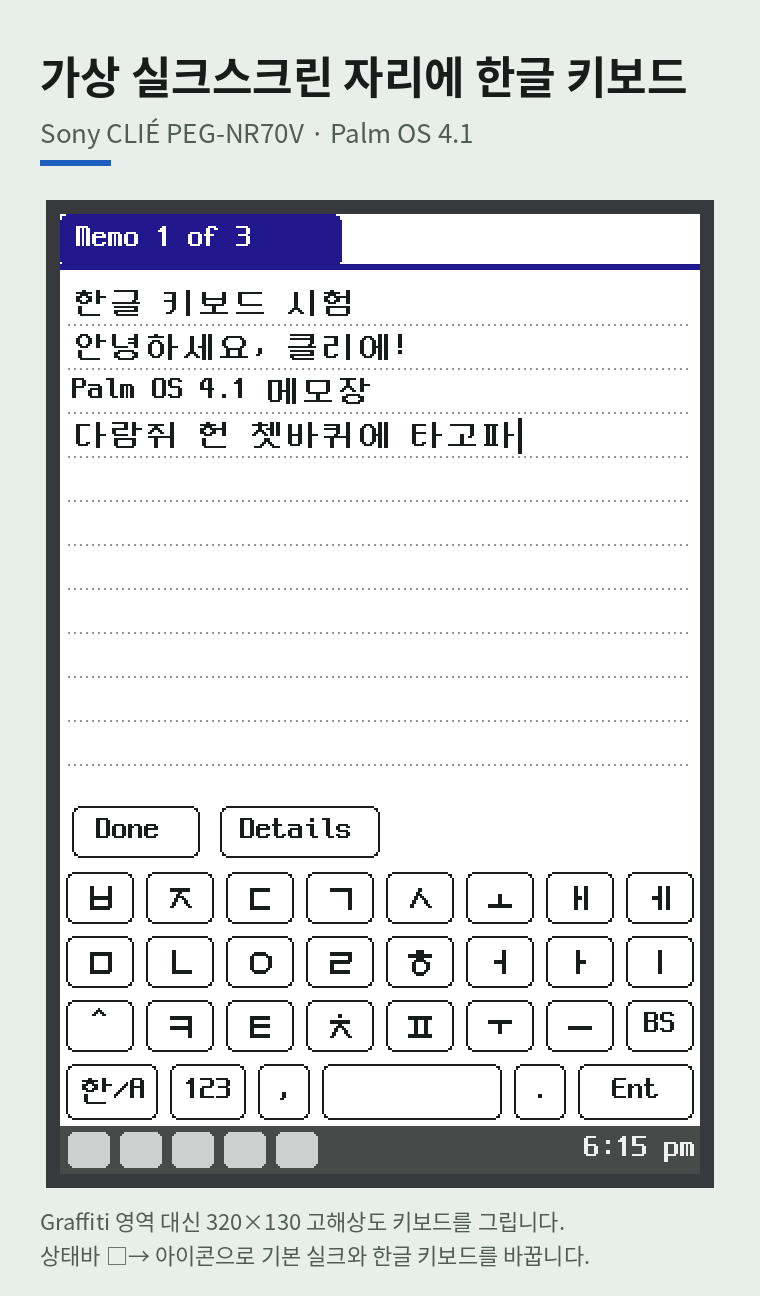
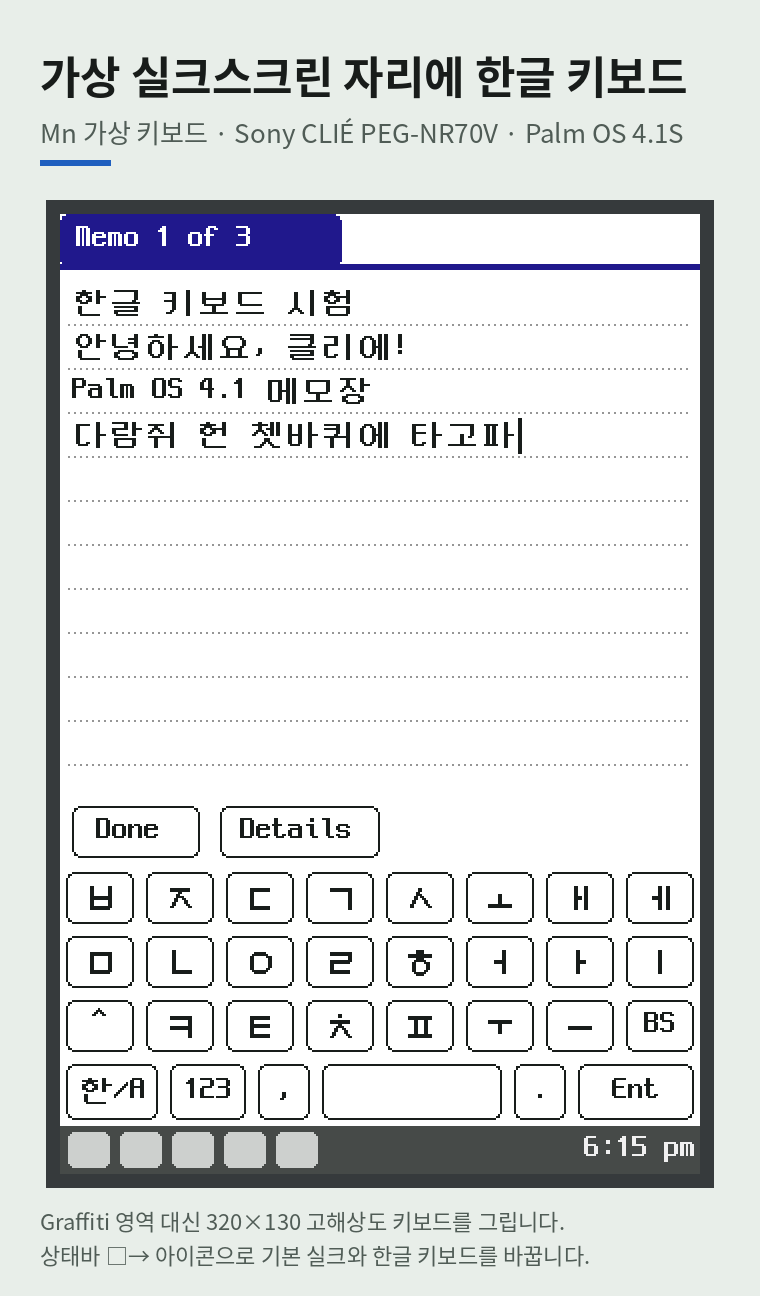
README images: label module names (Mn virtual keyboard / MnSonyKbd), fix outdated 'MnHangul 하나' subtitle, compose rules shared note
Claude-Session: https://claude.ai/code/session_0111EUgHmukks2KoNHTb7Lqc

Changed region(s): [[0.0605, 0.0926, 0.6658, 0.1235], [0.6961, 0.0926, 0.9079, 0.1235]]

diff --git a/tools/gen-readme-images.py b/tools/gen-readme-images.py
@@ -256,7 +256,7 @@ def stack(*imgs, gap=24, label=None):
 
 # 1. 전체 화면
 card("가상 실크스크린 자리에 한글 키보드",
-     "Sony CLIÉ PEG-NR70V · Palm OS 4.1",
+     "Mn 가상 키보드 · Sony CLIÉ PEG-NR70V · Palm OS 4.1S",
      frame(memo_screen(["한글 키보드 시험", "안녕하세요, 클리에!", "Palm OS 4.1 메모장", "다람쥐 헌 쳇바퀴에 타고파"],
                        keyboard('han'), cursor=3)),
      "01-overview.png",
@@ -265,14 +265,14 @@ card("가상 실크스크린 자리에 한글 키보드",
 
 # 2. 단모음 자판
 card("단모음 한글 자판",
-     "자음 14키 + 모음 8키 · Shift로 쌍자음",
+     "Mn 가상 키보드: 자음 14 + 모음 8 · Shift로 쌍자음",
      stack(frame(keyboard('han')), frame(keyboard('han', shift=True)), label=["기본", "Shift (^) — ㅃ ㅉ ㄸ ㄲ ㅆ"]),
      "02-hangul-layout.png",
      ["ㅏ·ㅓ·ㅗ·ㅜ를 한 번 더 누르면 ㅑ·ㅕ·ㅛ·ㅠ, ㅐ·ㅔ는 ㅒ·ㅖ가 됩니다."])
 
 # 3. 영문·숫자
 card("영문 QWERTY · 숫자/기호",
-     "한/A로 한·영 전환, 123으로 숫자·기호",
+     "Mn 가상 키보드: 한/A로 한·영, 123으로 숫자·기호",
      stack(frame(keyboard('eng')), frame(keyboard('num')), label=["영문 (한/A)", "숫자·기호 (123)"]),
      "03-english-number.png")
 
@@ -301,7 +301,8 @@ card("받침 넘김 · 자모 단위 지우기",
      frame(cell),
      "04-compose.png",
      ["받침 뒤에 모음이 오면 마지막 자음이 다음 글자로 넘어갑니다(닭 + ㅣ → 달기).",
-      "조합 중 BS는 자모 하나씩 지웁니다(닭 → 달)."])
+      "조합 중 BS는 자모 하나씩 지웁니다(닭 → 달).",
+      "Mn 가상 키보드와 MnSonyKbd(Sony 가상 키보드)가 같은 조합 규칙을 씁니다."])
 
 # 5. CJKOS 없이 (시험 중)
 lines12 = Image.new('RGB', (320, 140), PAPER)

diff --git a/tools/gen-readme-sony.py b/tools/gen-readme-sony.py
@@ -33,7 +33,7 @@ H = 168 + sh + 50 + 90
 img = Image.new('RGB', (W, H), BG)
 d = ImageDraw.Draw(img)
 d.text((40, 36), 'Sony 가상 키보드로 한글', font=H1, fill=INK)
-d.text((40, 104), 'MnHangul 하나, 리셋 없음 · 한A 키 = 한/영', font=H2, fill=SUB)
+d.text((40, 104), 'MnSonyKbd · 리셋 없음 · 한A 키 = 한/영', font=H2, fill=SUB)
 d.rectangle((40, 146, 110, 150), fill=ACCENT)
 
 y = 168
